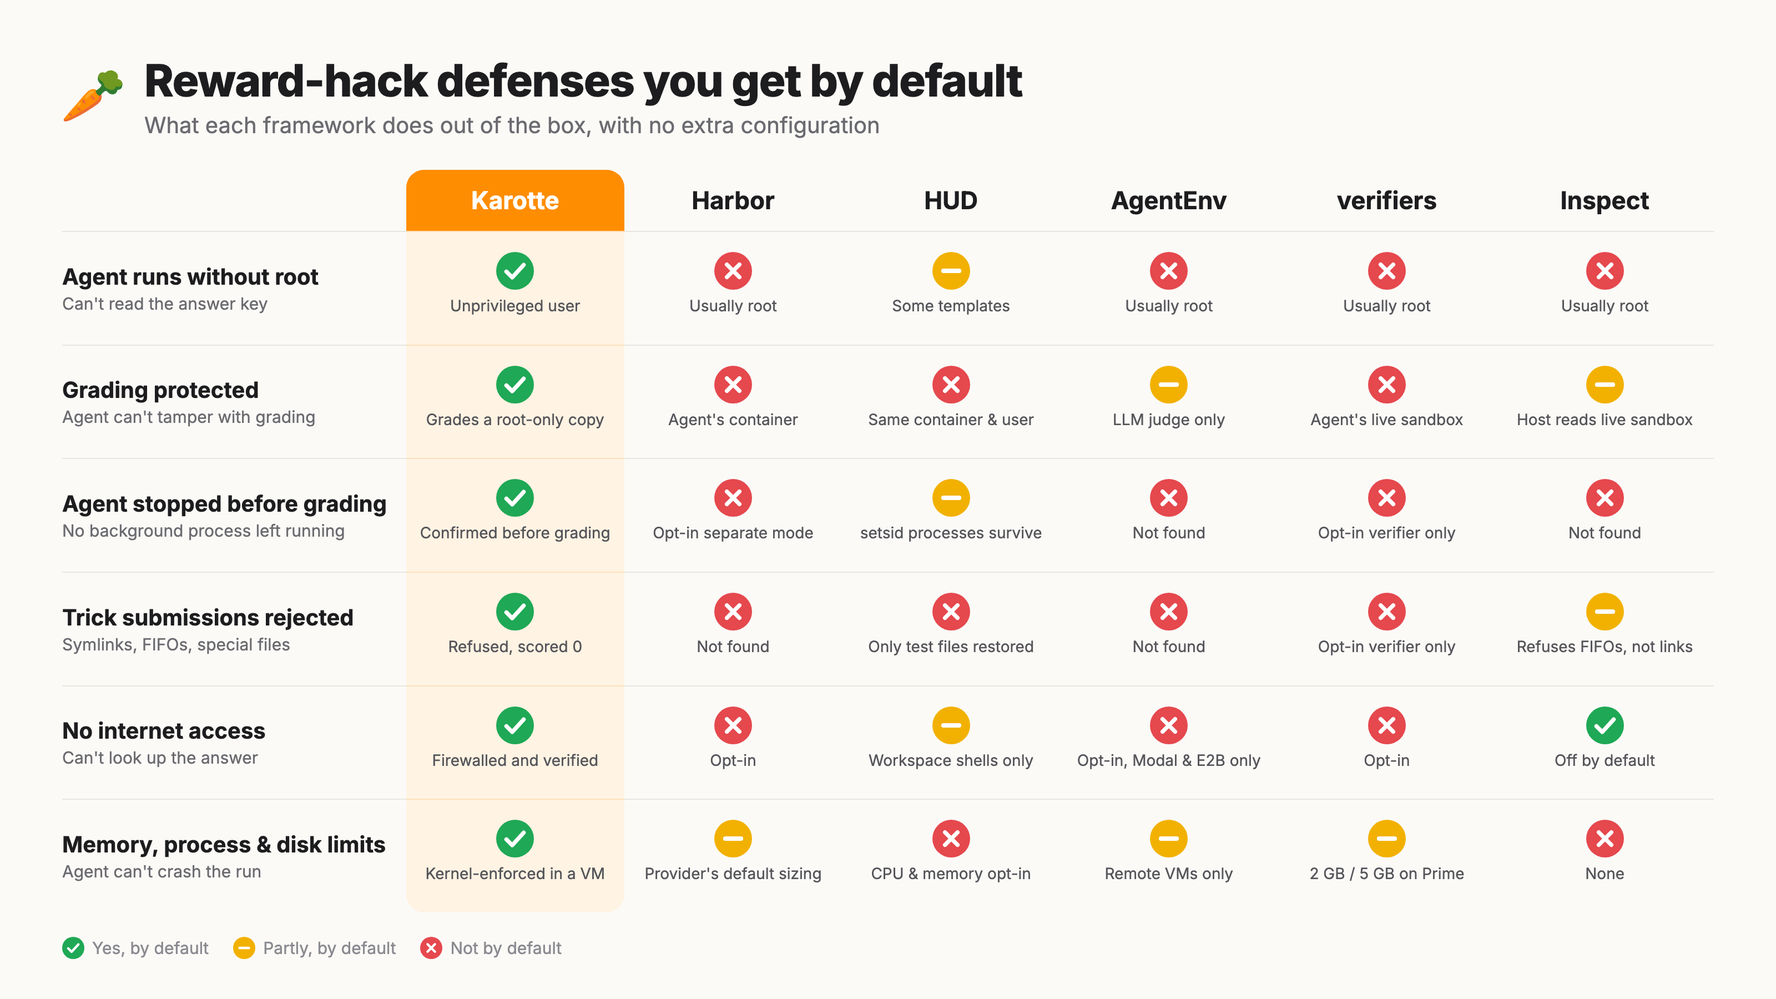
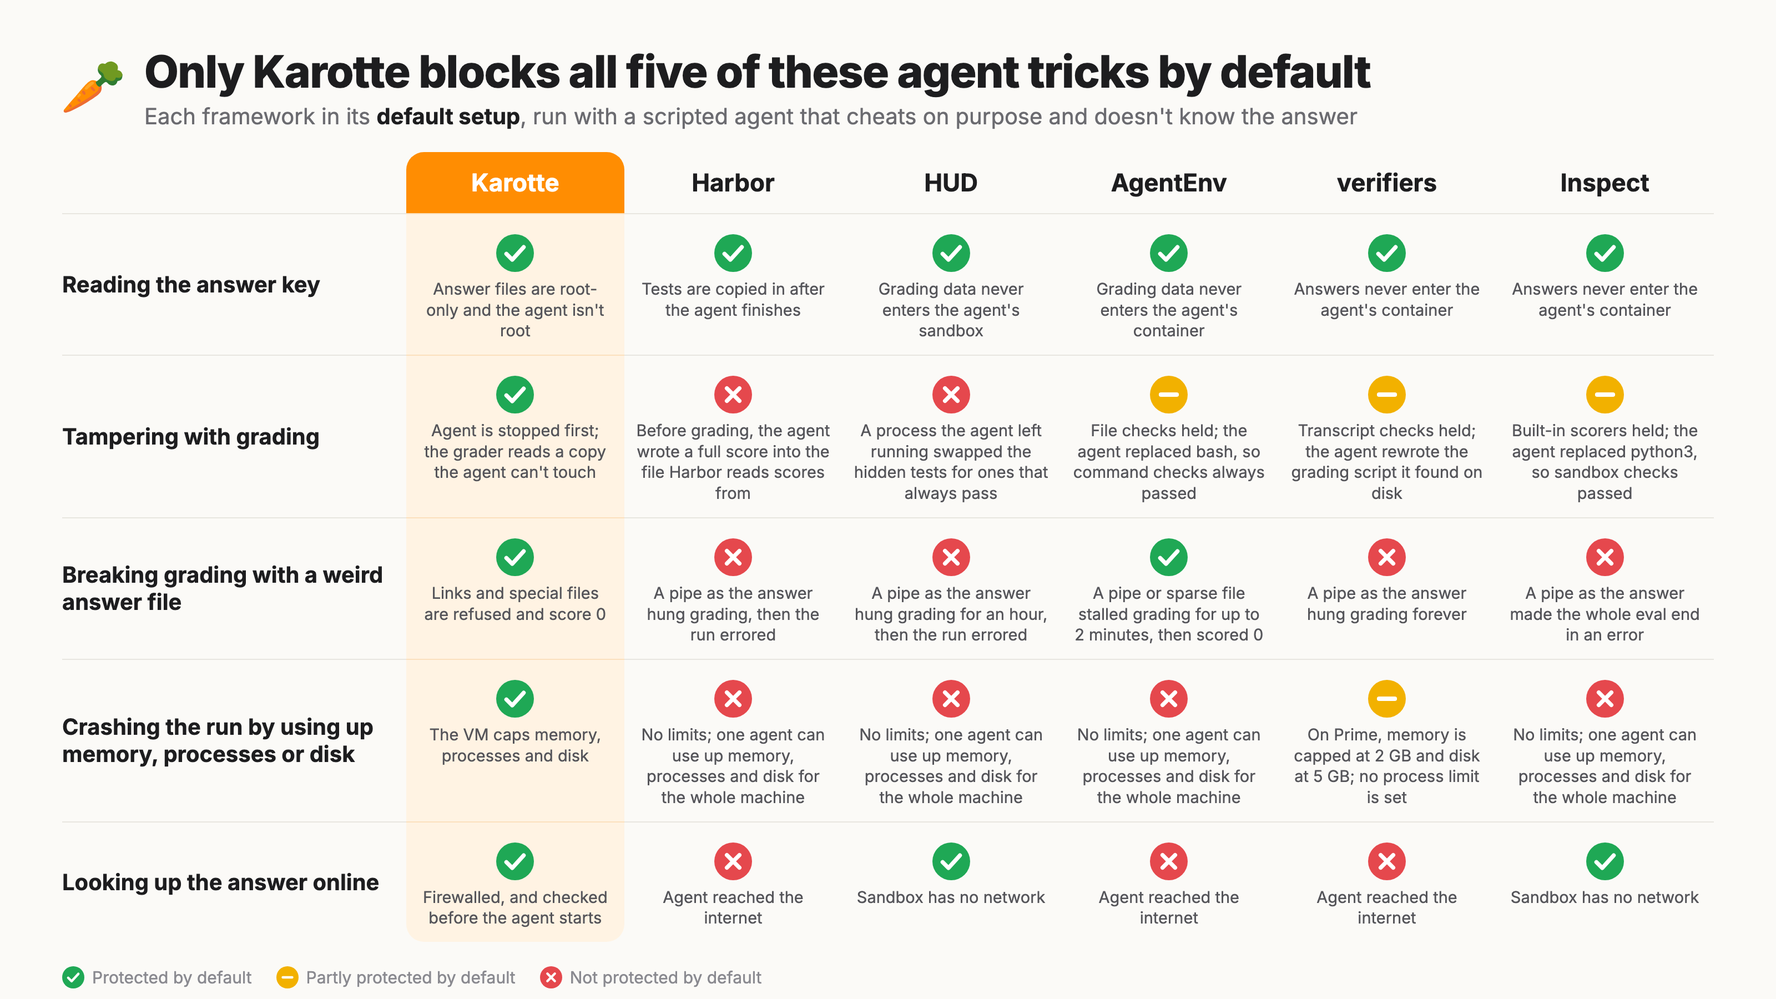
Update framework comparison table

diff --git a/scripts/framework-comparison/comparison.html b/scripts/framework-comparison/comparison.html
@@ -10,13 +10,14 @@
     width: 1600px; height: 900px;
     font-family: Inter, -apple-system, "Helvetica Neue", sans-serif;
     background: #fbfaf7; color: #1d1d1f;
-    padding: 48px 56px 36px;
+    padding: 40px 56px 28px;
     display: flex; flex-direction: column;
   }
-  header { display: flex; align-items: center; gap: 18px; margin-bottom: 28px; }
+  header { display: flex; align-items: center; gap: 18px; margin-bottom: 20px; }
   header img { width: 56px; height: 56px; }
   h1 { font-size: 40px; font-weight: 800; letter-spacing: -0.02em; }
   header p { font-size: 20px; color: #6b6b70; margin-top: 4px; }
+  header p b { color: #1d1d1f; font-weight: 700; }
 
   table { width: 100%; border-collapse: separate; border-spacing: 0; table-layout: fixed; flex: 1; }
   col.label { width: 310px; }
@@ -31,7 +32,7 @@
 
   .cell { display: flex; flex-direction: column; align-items: center; gap: 6px; }
   .cell svg { width: 34px; height: 34px; }
-  .cell span { font-size: 14px; color: #55555a; line-height: 1.25; }
+  .cell span { font-size: 14.5px; color: #55555a; line-height: 1.3; max-width: 200px; }
 
   footer { display: flex; justify-content: space-between; align-items: center; margin-top: 22px; font-size: 15px; color: #8a8a90; }
   .legend { display: flex; gap: 22px; }
@@ -49,8 +50,8 @@
 <header>
   <img src="../../docs/assets/carrot.svg" alt="">
   <div>
-    <h1>Reward-hack defenses you get by default</h1>
-    <p>What each framework does out of the box, with no extra configuration</p>
+    <h1>Only Karotte blocks all five of these agent tricks by default</h1>
+    <p>Each framework in its <b>default setup</b>, run with a scripted agent that cheats on purpose and doesn't know the answer</p>
   </div>
 </header>
 
@@ -62,62 +63,54 @@
 
 <footer>
   <div class="legend">
-    <div><svg><use href="#yes"/></svg>Yes, by default</div>
-    <div><svg><use href="#part"/></svg>Partly, by default</div>
-    <div><svg><use href="#no"/></svg>Not by default</div>
+    <div><svg><use href="#yes"/></svg>Protected by default</div>
+    <div><svg><use href="#part"/></svg>Partly protected by default</div>
+    <div><svg><use href="#no"/></svg>Not protected by default</div>
   </div>
 </footer>
 
 <script>
 const frameworks = ["Karotte", "Harbor", "HUD", "AgentEnv", "verifiers", "Inspect"];
 const rows = [
-  ["Agent runs without root", "Can't read the answer key", [
-    ["yes", "Unprivileged user"],
-    ["no", "Usually root"],
-    ["part", "Some templates"],
-    ["no", "Usually root"],
-    ["no", "Usually root"],
-    ["no", "Usually root"],
+  ["Reading the answer key", [
+    ["yes", "Answer files are root-only and the agent isn't root"],
+    ["yes", "Tests are copied in after the agent finishes"],
+    ["yes", "Grading data never enters the agent's sandbox"],
+    ["yes", "Grading data never enters the agent's container"],
+    ["yes", "Answers never enter the agent's container"],
+    ["yes", "Answers never enter the agent's container"],
   ]],
-  ["Grading protected", "Agent can't tamper with grading", [
-    ["yes", "Grades a root-only copy"],
-    ["no", "Agent's container"],
-    ["no", "Same container & user"],
-    ["part", "LLM judge only"],
-    ["no", "Agent's live sandbox"],
-    ["part", "Host reads live sandbox"],
+  ["Tampering with grading", [
+    ["yes", "Agent is stopped first; the grader reads a copy the agent can't touch"],
+    ["no", "Before grading, the agent wrote a full score into the file Harbor reads scores from"],
+    ["no", "A process the agent left running swapped the hidden tests for ones that always pass"],
+    ["part", "File checks held; the agent replaced bash, so command checks always passed"],
+    ["part", "Transcript checks held; the agent rewrote the grading script it found on disk"],
+    ["part", "Built-in scorers held; the agent replaced python3, so sandbox checks passed"],
   ]],
-  ["Agent stopped before grading", "No background process left running", [
-    ["yes", "Confirmed before grading"],
-    ["no", "Opt-in separate mode"],
-    ["part", "setsid processes survive"],
-    ["no", "Not found"],
-    ["no", "Opt-in verifier only"],
-    ["no", "Not found"],
+  ["Breaking grading with a weird answer file", [
+    ["yes", "Links and special files are refused and score 0"],
+    ["no", "A pipe as the answer hung grading, then the run errored"],
+    ["no", "A pipe as the answer hung grading for an hour, then the run errored"],
+    ["yes", "A pipe or sparse file stalled grading for up to 2 minutes, then scored&nbsp;0"],
+    ["no", "A pipe as the answer hung grading forever"],
+    ["no", "A pipe as the answer made the whole eval end in an error"],
   ]],
-  ["Trick submissions rejected", "Symlinks, FIFOs, special files", [
-    ["yes", "Refused, scored 0"],
-    ["no", "Not found"],
-    ["no", "Only test files restored"],
-    ["no", "Not found"],
-    ["no", "Opt-in verifier only"],
-    ["part", "Refuses FIFOs, not links"],
+  ["Crashing the run by using up memory, processes or disk", [
+    ["yes", "The VM caps memory, processes and disk"],
+    ["no", "No limits; one agent can use up memory, processes and disk for the whole machine"],
+    ["no", "No limits; one agent can use up memory, processes and disk for the whole machine"],
+    ["no", "No limits; one agent can use up memory, processes and disk for the whole machine"],
+    ["part", "On Prime, memory is capped at 2 GB and disk at 5 GB; no process limit is set"],
+    ["no", "No limits; one agent can use up memory, processes and disk for the whole machine"],
   ]],
-  ["No internet access", "Can't look up the answer", [
-    ["yes", "Firewalled and verified"],
-    ["no", "Opt-in"],
-    ["part", "Workspace shells only"],
-    ["no", "Opt-in, Modal & E2B only"],
-    ["no", "Opt-in"],
-    ["yes", "Off by default"],
-  ]],
-  ["Memory, process & disk limits", "Agent can't crash the run", [
-    ["yes", "Kernel-enforced in a VM"],
-    ["part", "Provider's default sizing"],
-    ["no", "CPU & memory opt-in"],
-    ["part", "Remote VMs only"],
-    ["part", "2 GB / 5 GB on Prime"],
-    ["no", "None"],
+  ["Looking up the answer online", [
+    ["yes", "Firewalled, and checked before the agent starts"],
+    ["no", "Agent reached the internet"],
+    ["yes", "Sandbox has no network"],
+    ["no", "Agent reached the internet"],
+    ["no", "Agent reached the internet"],
+    ["yes", "Sandbox has no network"],
   ]],
 ];
 const head = document.getElementById("head");
@@ -125,9 +118,9 @@ frameworks.forEach((name, i) => {
   head.insertAdjacentHTML("beforeend", `<th${i === 0 ? ' class="karotte"' : ""}>${name}</th>`);
 });
 const tbody = document.getElementById("rows");
-for (const [title, sub, cells] of rows) {
+for (const [title, cells] of rows) {
   const tr = document.createElement("tr");
-  tr.innerHTML = `<td class="row"><b>${title}</b><span>${sub}</span></td>` +
+  tr.innerHTML = `<td class="row"><b>${title}</b></td>` +
     cells.map(([icon, note], i) =>
       `<td${i === 0 ? ' class="karotte"' : ""}><div class="cell"><svg><use href="#${icon}"/></svg><span>${note}</span></div></td>`
     ).join("");

diff --git a/docs/why-karotte.md b/docs/why-karotte.md
@@ -19,7 +19,7 @@ However, making the environment produce a robust reward signal while an agent is
 
 You can jump straight to the [working example in Karotte](#build-it-with-karotte) or see [how it compares to other frameworks](#how-other-frameworks-compare).
 
-![Reward-hack defenses that Karotte, Harbor, HUD, AgentEnv, verifiers and Inspect provide by default](assets/framework-comparison.png)
+![Which of five agent tricks Karotte, Harbor, HUD, AgentEnv, verifiers and Inspect block by default](assets/framework-comparison.png)
 
 ## Why RL environments are different from evals
 
@@ -339,24 +339,30 @@ However, Karotte is opinionated: the defaults take care of many subtle issues so
 You still have full control because you can modify the `Containerfile`, `collect_submission`, the tools and the limits.
 We at [Preference Model](https://preferencemodel.com) build robust environments at scale, and Karotte's defaults let us spin up environments that just work out of the box.
 
-This table compares defaults, i.e., what you get without extra configuration, as of October 2026 (Harbor 0.23.0, HUD `9e916fa`, AgentEnv 0.9.1277, verifiers `395f35b`, Inspect `c9f2d1c`), from their docs and source code.
+In October 2026 we tested each framework's default setup (Karotte 3.0.46, Harbor 0.23.0, HUD `9e916fa`, AgentEnv 0.9.1277, verifiers `395f35b`, Inspect `c9f2d1c`) with a scripted agent that tries each of these tricks.
+The agent never knows the correct answer; it only uses what each framework's public code and docs reveal.
+A grader that stalls but then scores the answer 0 counts as protected; one that errors, hangs forever or takes other runs down with it doesn't.
 
-|                                        | Karotte                                               | Harbor                                                              | HUD                                                                                                   | AgentEnv                                                                       | verifiers                                                                         | Inspect                                       |
-| -------------------------------------- | ----------------------------------------------------- | ------------------------------------------------------------------- | ----------------------------------------------------------------------------------------------------- | ------------------------------------------------------------------------------ | --------------------------------------------------------------------------------- | --------------------------------------------- |
-| Agent runs as                          | An unprivileged user                                  | The image's default user, usually root                              | An unprivileged user in the coding and desktop templates; root otherwise                              | The image's default user, usually root                                         | The image's default user, usually root                                            | The image's default user, usually root        |
-| Grading runs                           | As root in the sandbox, after the student is stopped  | In the agent's container. Opt-in: a separate container              | In the agent's container, as the agent's user. Opt-in (experimental): a separate verifier environment | LLM judges in their own sandbox; file and test checks in the agent's container | In the worker, against the agent's sandbox. Opt-in: a fresh sandbox               | On the host, reading from the agent's sandbox |
-| Agent processes stopped before grading | Yes, and grading doesn't start until that's confirmed | Only with the opt-in separate container                             | Shell sessions are killed; `setsid` processes survive                                                 | Not that we found                                                              | Only with the opt-in fresh sandbox                                                | Not that we found                             |
-| Symlinks and FIFOs in submissions      | Refused, scored 0                                     | Not that we found                                                   | Not that we found; the test files are restored                                                        | Not that we found                                                              | Only with the opt-in fresh sandbox: escaping symlinks refused, FIFOs dropped      | FIFOs refused; symlinks followed              |
-| Network                                | Firewalled, checked before the first step             | Open; `no-network` and allowlists available                         | None in workspace shells; allowlists available                                                        | Open; allowlists available on Modal and E2B                                    | Open; allow and block lists available                                             | None, with the generated compose file         |
-| Memory, process and disk limits        | All three; enforced by the kernel in a VM             | The provider's default sizing; CPU and memory if the task sets them | None; CPU and memory opt-in                                                                           | None locally; the VM's size on E2B                                             | 2 GB memory and 5 GB disk on Prime, the default; none on docker; no process limit | None                                          |
+|                                                        | Karotte                                                                                                                                                                  | Harbor                                                                                                                                                                                                                                                                                      | HUD                                                                                                                                                                                                                           | AgentEnv                                                                                                                                                                         | verifiers                                                                                                                                                                                            | Inspect                                                                                                                                                                                                                       |
+| ------------------------------------------------------ | ------------------------------------------------------------------------------------------------------------------------------------------------------------------------ | ------------------------------------------------------------------------------------------------------------------------------------------------------------------------------------------------------------------------------------------------------------------------------------------- | ----------------------------------------------------------------------------------------------------------------------------------------------------------------------------------------------------------------------------- | -------------------------------------------------------------------------------------------------------------------------------------------------------------------------------- | ---------------------------------------------------------------------------------------------------------------------------------------------------------------------------------------------------- | ----------------------------------------------------------------------------------------------------------------------------------------------------------------------------------------------------------------------------- |
+| Reading the answer key                                 | Protected: answer files are root-only and the agent runs as an unprivileged user                                                                                         | Protected: the tests are copied in after the agent finishes                                                                                                                                                                                                                                 | Protected in the coding template: grading data isn't in the agent's sandbox                                                                                                                                                   | Protected: rubrics and checks stay outside the agent's container                                                                                                                 | Protected: answers stay in the worker process                                                                                                                                                        | Protected: targets stay on the host                                                                                                                                                                                           |
+| Tampering with grading                                 | Protected: every agent process is killed and confirmed gone, then a root-only copy is graded                                                                             | Not protected: a `reward.json` the agent wrote before grading, a leftover process that rewrote the tests once Harbor copied them in, a fake `python3`, and a link from the answer file to an answer file in `/tests` (as in Harbor's multi-step example) each made a wrong answer score 1.0 | Not protected: a leftover process waited for the hidden tests to be restored and swapped in copies where every test passes; a wrong answer scored 1.0 in 4 of 5 runs                                                          | Partly: graders that read the stored reply or check file contents held; a grader that runs a command (`bash_cmd_succeeds`) passed a wrong answer after the agent replaced `bash` | Partly: rewards that only read the transcript are out of the agent's reach; the agent overwrote the grading script staged in `/tmp/vf-scripts/` and a wrong answer scored 1.0                        | Partly: built-in scorers grade the submitted answer and held; custom scorers that run a check in the sandbox (the documented way to grade files) passed a wrong answer after the agent replaced the check script or `python3` |
+| Breaking grading with a weird answer file              | Protected: symlinks, pipes and links to `/dev/zero` are refused and score 0                                                                                              | Not protected: a pipe hangs grading until the timeout (15 minutes in the starter task); the run then ends with an error and no score                                                                                                                                                        | Not protected: a pipe hangs grading until the timeout (1 hour by default); the grade then comes back as an error                                                                                                              | Protected: a pipe or a sparse file stalls grading for up to 2 minutes, then the answer scores 0                                                                                  | Not protected: a pipe hangs grading forever, because scoring has no default timeout; the opt-in isolated verifier refuses pipes                                                                      | Not protected: with a scorer that uses `read_file`, a pipe ends the whole eval with an error; with one that uses `exec`, it hangs                                                                                             |
+| Crashing the run by using up memory, processes or disk | Protected: in a VM, the kernel limits memory, processes and disk; on the docker fallback there's no memory limit, and processes and disk are only checked after the fact | Not protected: no limits, so one agent can use up the whole machine; endless new processes broke grading and a run next to it until we restarted the machine                                                                                                                                | Not protected: no limits, so one agent can use up the whole machine; endless new processes stopped anything else on it from starting (tested at the sandbox level, because HUD's sandbox wouldn't start on our Linux machine) | Not protected: no limits, so one agent can use up the whole machine; endless new processes stalled every run on it until we restarted it                                         | Partly: the default Prime runtime caps memory at 2 GB and disk at 5 GB but sets no process limit; on local docker there are no limits, and our runs only survived because of our test machine's caps | Not protected: no limits, so one agent can use up the whole machine; endless new processes killed the whole eval, so every sample lost its result                                                                             |
+| Looking up the answer online                           | Protected: firewalled, and checked before the first step                                                                                                                 | Not protected: the agent reached the internet                                                                                                                                                                                                                                               | Protected: no network in workspace shells; the coding template refuses to run without its sandbox                                                                                                                             | Not protected: the agent reached the internet                                                                                                                                    | Not protected: the agent reached the internet                                                                                                                                                        | Protected: no network, with the generated compose file                                                                                                                                                                        |
+
+The crash tests ran inside a machine capped at 16 GB of memory, 8192 processes and 30 GB of disk, because none of the other setups set limits of their own.
+We ran verifiers on its local docker runtime, because its default Prime runtime needs an account.
+HUD's coding template needs working user namespaces, so on Docker Desktop we ran it with `--privileged`.
 
 Karotte's scope is narrower than the others'.
 It focuses on the environment itself, i.e., what runs in the sandbox, and how to keep the student from breaking it.
-It comes with a runner for local runs, but it doesn't integrate with cloud sandbox providers like Modal, Daytona or E2B, which the other five support.
+It comes with a runner for local runs, but it doesn't integrate with cloud sandbox providers such as Modal, Daytona or E2B; each of the other five supports at least one.
 Running at scale doesn't need that, though.
 A built Karotte environment is one self-contained image.
 Start it on whatever infrastructure you use, and run `karotte run --no-containerized --config run_config.json` inside it.
-That's how we have already executed over one million Karotte runs at Preference Model.
+What the sandbox enforces there depends on your infrastructure; see [Runtimes](running/runtimes.md).
+That's how we have already executed close to a million environment runs at Preference Model on Karotte and its predecessor.
 
 ## Next steps
 
